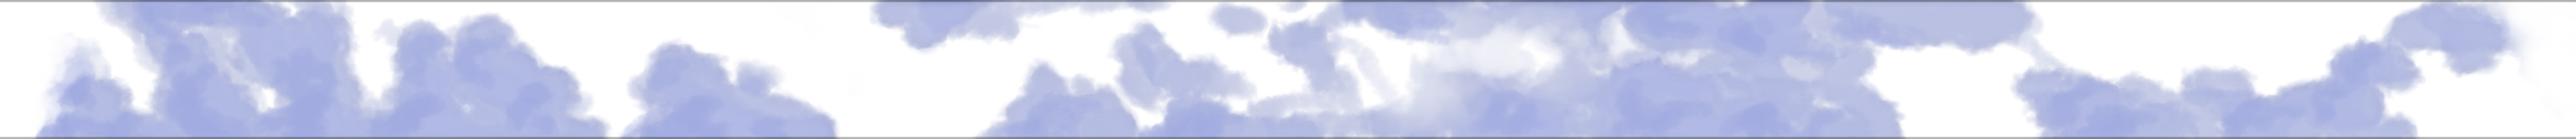
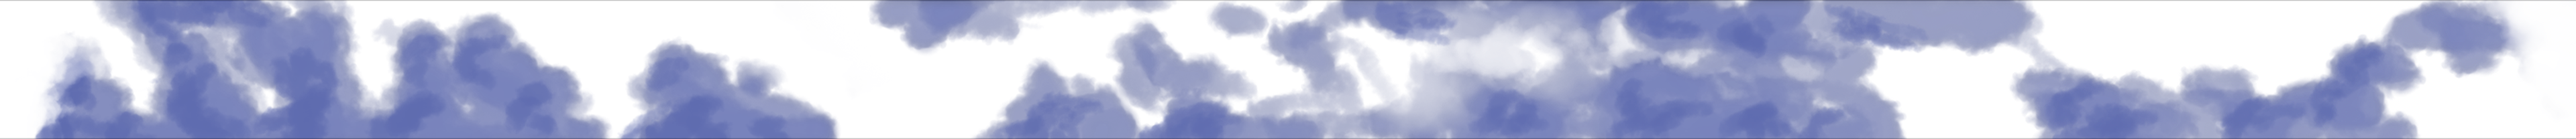
- Fixed double-height shadows - Moved status label down

diff --git a/JustLanded/JLTrackStyles.m b/JustLanded/JLTrackStyles.m
@@ -50,10 +50,10 @@
 
 + (CGRect)statusLabelFrame {
     if ([UIScreen isMainScreenWide]) {
-        return (CGRect) {{136.0f, 15.0f}, {175.0f, 46.0f}};
+        return (CGRect) {{136.0f, 19.0f}, {175.0f, 46.0f}};
     }
     else {
-        return (CGRect) {{136.0f, 11.0f}, {175.0f, 46.0f}};
+        return (CGRect) {{136.0f, 15.0f}, {175.0f, 46.0f}};
     }
 }
 
